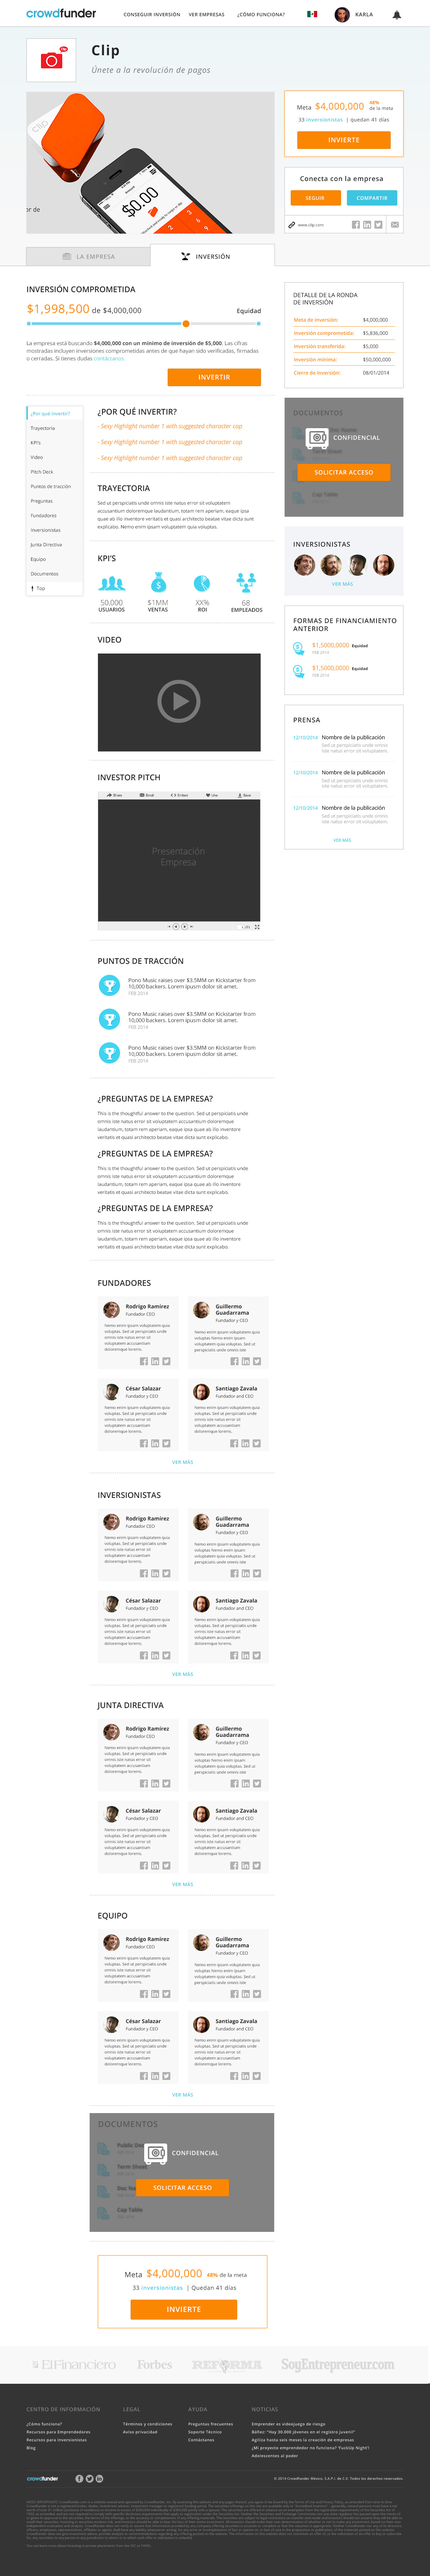
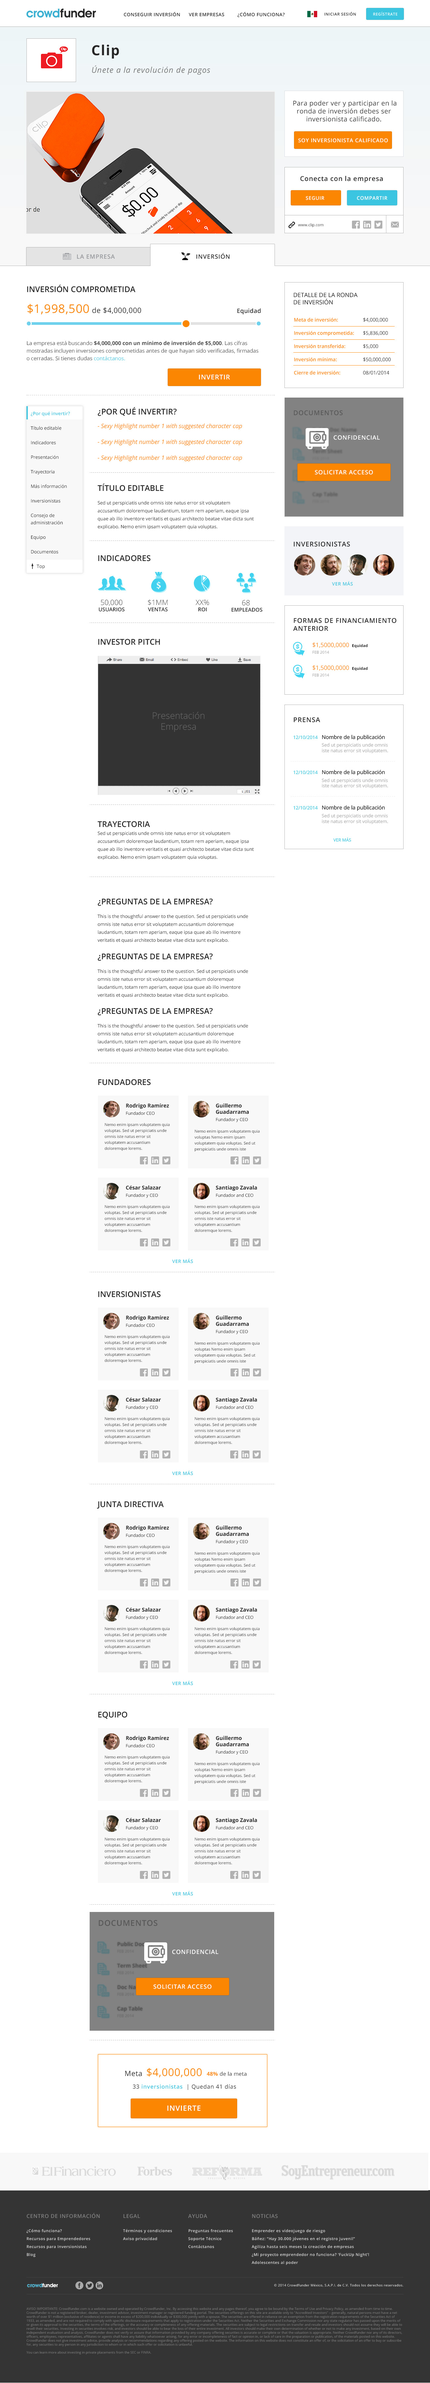
cambios

Changed region(s): [[0.0, 0.0, 1.0, 1.0], [0.6462, 0.0, 0.9538, 0.3436]]

diff --git a/crowdfunder/index.html b/crowdfunder/index.html
@@ -747,9 +747,9 @@ Página web</li>
 										</td>
 										<td></td>
 									</tr>
-									<tr class="warning">
+									<tr class="success">
 										<td>17.1</td>
-										<td><a href="popup_legal_usa.html" target="_blank">Pop up / Legal para inversionistas residentes o ciudadanos de USA</a></td>
+										<td><a href="popup_lo_sentimos_v1.html" target="_blank">Pop up / Legal para inversionistas residentes o ciudadanos de USA</a></td>
 
 										<td><a href="mx/wireframes/wireframe_investor_welcome.jpg" target="_blank">Wireframe</a></td>
 										<td>
@@ -759,9 +759,9 @@ Página web</li>
 										</td>
 										<td></td>
 									</tr>
-									<tr class="warning">
+									<tr class="success">
 										<td>17.2</td>
-										<td><a href="popup_legal_no_usa.html" target="_blank">Pop up / legal para inversionista no USA no residente O ciudadanos mexicanos</a></td>
+										<td><a href="popup_aviso_legal_v1.html" target="_blank">Pop up / legal para inversionista no USA no residente O ciudadanos mexicanos</a></td>
 
 										<td><a href="mx/wireframes/wireframe_investor_welcome.jpg" target="_blank">Wireframe</a></td>
 										<td>
@@ -778,54 +778,6 @@ Página web</li>
 					</div>
 
 
-					<!-- Sign up -->
-					<div class="panel panel-primary">
-						<div class="panel-heading"><h4>Sign up</h4></div>
-						<div class="panel-body">
-							<!-- Table -->
-							<table class="table table-hover">
-								<thead>
-									<tr>
-										<th>#</th>
-										<th>Screen Name</th>
-										<th>Wireframe</th>
-										<th>Actions</th>
-										<th>Download</th>
-									</tr>
-								</thead>
-								<tbody>
-									<tr>
-										<td>18</td>
-										<td><a href="signup_button_v1.html" target="_blank">Sign up v1</a></td>
-										<td><a href="mx/wireframes/wireframe_signup_button.jpg" target="_blank">Wireframe</a></td>
-										<td>
-											<ul>
-												<li>Translate</li>
-											</ul>
-										</td>
-										<td></td>
-									</tr>
-									<tr class="warning">
-										<td>19</td>
-										<td><a href="signup_button_v2.html" target="_blank">Sign up v2</a></td>
-										<td><a href="mx/wireframes/wireframe_signup_button.jpg" target="_blank">Wireframe</a></td>
-										<td>
-											<ul>
-												<li>Quitar palomita de crea una cuenta </li>
-												<li>Cambiar nombre los pasos arriba (CAMBIO APLICABLE A TODO REGISTRO COMO INVERSIONISTA)</li>
-												<li>Quitar título registrate a través de las redes</li>
-												<li>Cambiar Email por “Correo electrónico”</li>
-												<li>Contraseña quitar mínimo 8 caracteres. </li>
-												<li>Cambiar botón: Registrate</li>
-											</ul>
-										</td>
-										<td></td>
-									</tr>
-								</tbody>
-							</table>
-							<!-- /Table -->
-  						</div>
-					</div>
 
 					<!-- Deal admin -->
 					<div class="panel panel-primary">

diff --git a/crowdfunder/popup_aviso_legal_v1.html b/crowdfunder/popup_aviso_legal_v1.html
@@ -1,0 +1,39 @@
+<!DOCTYPE html>
+<html lang="en">
+	<head>
+		<meta charset="utf-8">
+		<meta http-equiv="X-UA-Compatible" content="IE=edge">
+		<meta name="viewport" content="width=device-width, initial-scale=1">
+		<title>Karla Villa / Diseñadora UI UX</title>
+
+		<!-- Font Lato -->
+		<link href='http://fonts.googleapis.com/css?family=Lato:100,300,400,900,100italic,300italic' rel='stylesheet' type='text/css'>
+		<!-- Latest compiled and minified CSS -->
+		<link rel="stylesheet" href="//maxcdn.bootstrapcdn.com/bootstrap/3.2.0/css/bootstrap.min.css">
+		<!-- Font Awesome -->
+		<link href="//maxcdn.bootstrapcdn.com/font-awesome/4.1.0/css/font-awesome.min.css" rel="stylesheet">
+		<!-- Styles  -->
+		<!-- <link rel="stylesheet" href="stylesheets/css/styles.css"> -->
+
+		<!-- HTML5 Shim and Respond.js IE8 support of HTML5 elements and media queries -->
+		<!-- WARNING: Respond.js doesn't work if you view the page via file:// -->
+		<!--[if lt IE 9]>
+			<script src="https://oss.maxcdn.com/html5shiv/3.7.2/html5shiv.min.js"></script>
+			<script src="https://oss.maxcdn.com/respond/1.4.2/respond.min.js"></script>
+		<![endif]-->
+		<style type="text/css">
+    		body{background-color: #fff;}
+
+    		#imagenDiv{
+		      background: url(mx/POP_UP_AVISO_LEGAL.jpg) top center #fff no-repeat ;
+		      width: 100%;
+		      height: 9000px;
+		    }
+		 </style>
+	</head>
+	<body>
+
+		<div id="imagenDiv"></div>
+
+	</body>
+</html>

diff --git a/crowdfunder/popup_lo_sentimos_v1.html b/crowdfunder/popup_lo_sentimos_v1.html
@@ -1,0 +1,39 @@
+<!DOCTYPE html>
+<html lang="en">
+	<head>
+		<meta charset="utf-8">
+		<meta http-equiv="X-UA-Compatible" content="IE=edge">
+		<meta name="viewport" content="width=device-width, initial-scale=1">
+		<title>Karla Villa / Diseñadora UI UX</title>
+
+		<!-- Font Lato -->
+		<link href='http://fonts.googleapis.com/css?family=Lato:100,300,400,900,100italic,300italic' rel='stylesheet' type='text/css'>
+		<!-- Latest compiled and minified CSS -->
+		<link rel="stylesheet" href="//maxcdn.bootstrapcdn.com/bootstrap/3.2.0/css/bootstrap.min.css">
+		<!-- Font Awesome -->
+		<link href="//maxcdn.bootstrapcdn.com/font-awesome/4.1.0/css/font-awesome.min.css" rel="stylesheet">
+		<!-- Styles  -->
+		<!-- <link rel="stylesheet" href="stylesheets/css/styles.css"> -->
+
+		<!-- HTML5 Shim and Respond.js IE8 support of HTML5 elements and media queries -->
+		<!-- WARNING: Respond.js doesn't work if you view the page via file:// -->
+		<!--[if lt IE 9]>
+			<script src="https://oss.maxcdn.com/html5shiv/3.7.2/html5shiv.min.js"></script>
+			<script src="https://oss.maxcdn.com/respond/1.4.2/respond.min.js"></script>
+		<![endif]-->
+		<style type="text/css">
+    		body{background-color: #fff;}
+
+    		#imagenDiv{
+		      background: url(mx/POP_UP_LO_SENTIMOS.jpg) top center #fff no-repeat ;
+		      width: 100%;
+		      height: 9000px;
+		    }
+		 </style>
+	</head>
+	<body>
+
+		<div id="imagenDiv"></div>
+
+	</body>
+</html>
